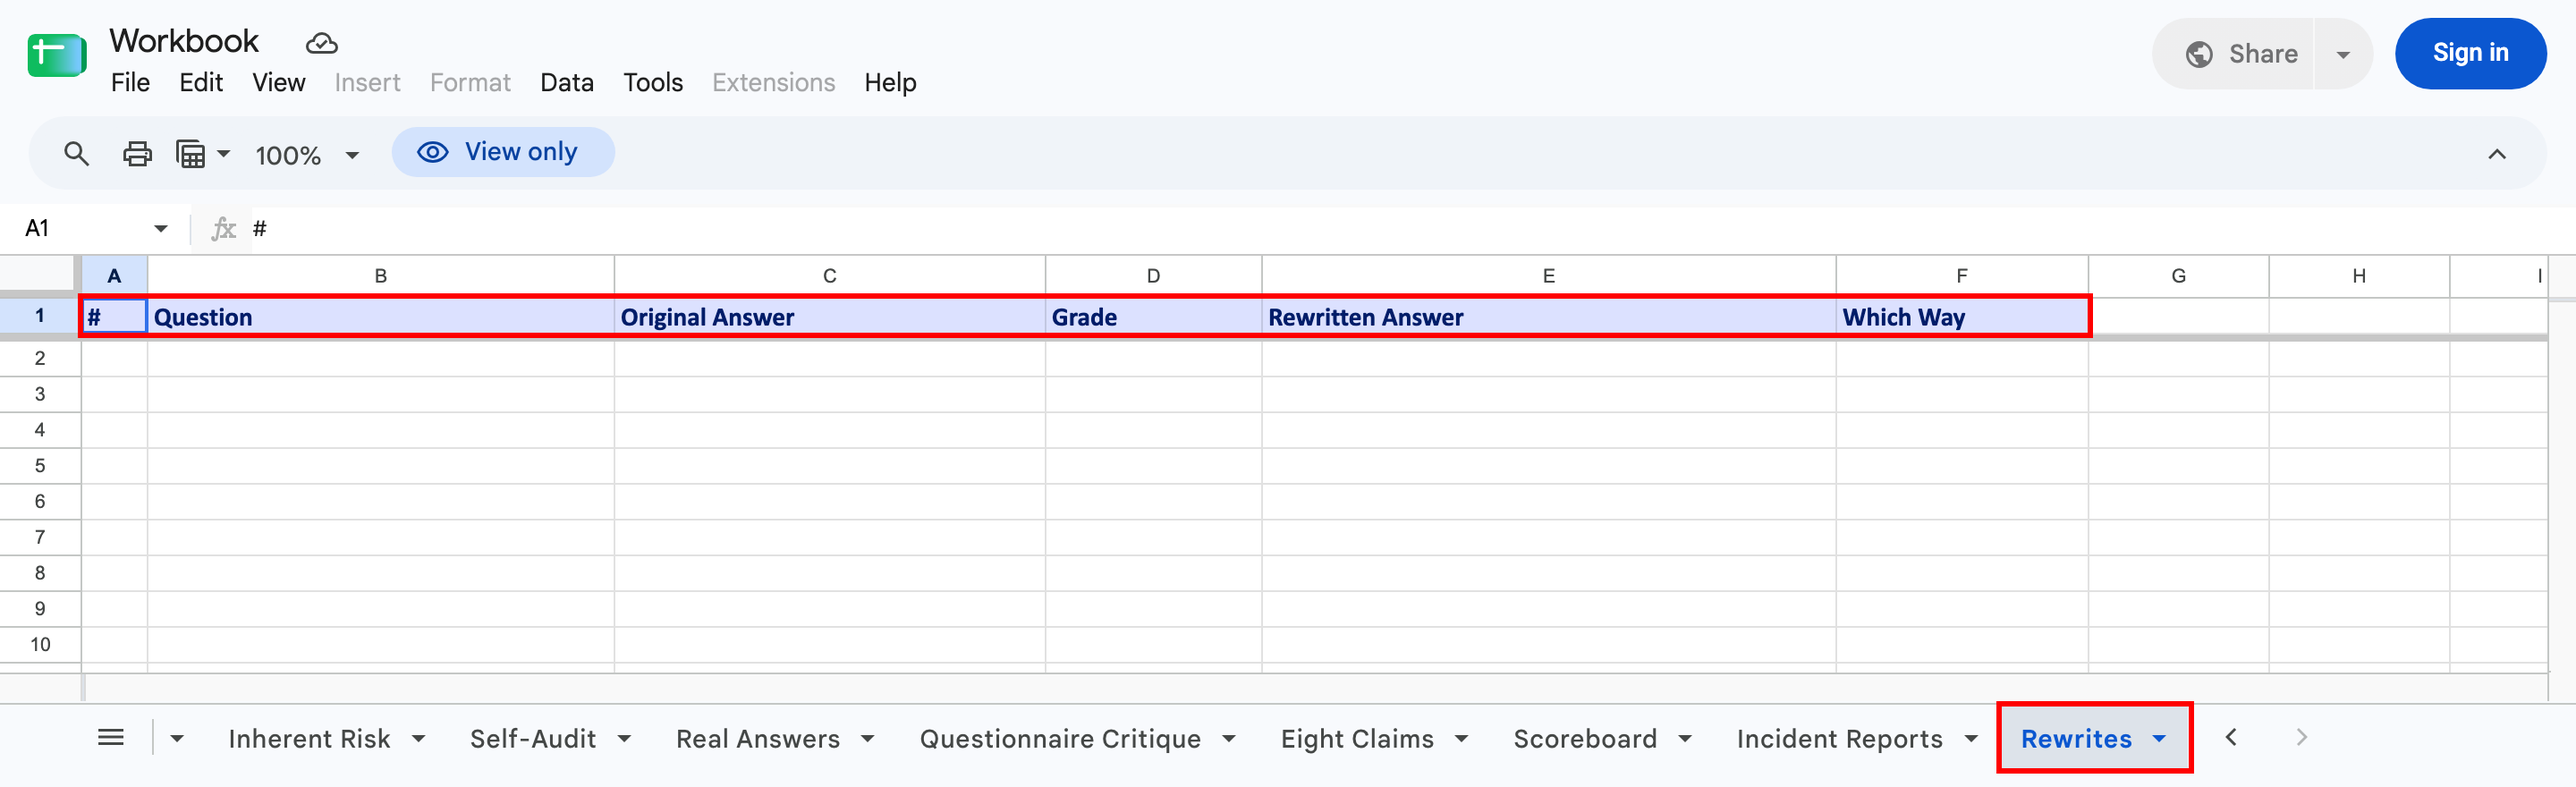
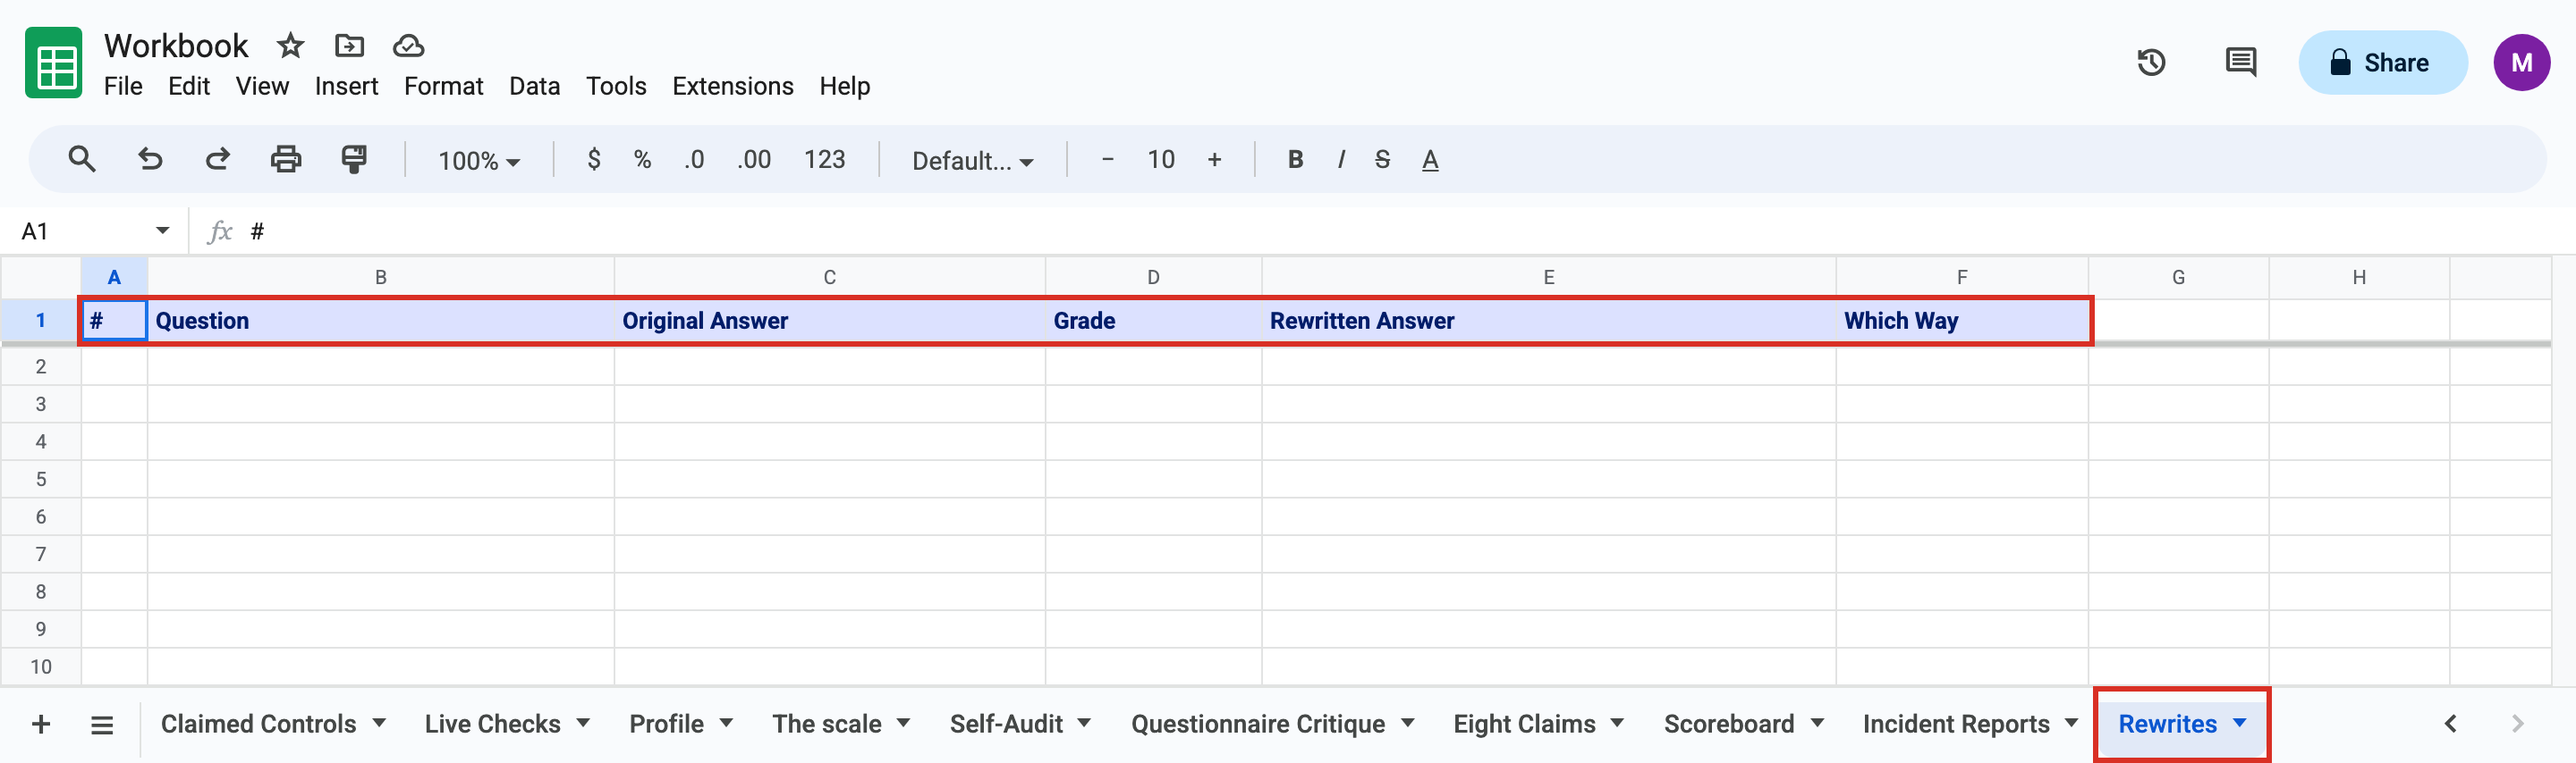
Publish vCISO P1 Step 1 interactives
Project 1 Step 1 interactives for the vCISO externship. Extern palette
only, vanilla JS, no external requests, keyboard operable, reduced-motion
safe.

diff --git a/vciso-p4-m3-what-would-an-auditor-accept.html b/vciso-p4-m3-what-would-an-auditor-accept.html
@@ -14,16 +14,24 @@
   Not per scope: the module is identical in every scope (build spec).
   Governing authority: output/programs/vciso/CLAUDE.md section 6.
 
-  Owner's interactive rules (Project 2) applied over the build spec:
+  Owner's interactive rules (Projects 2 and 3, HANDOVER-2026-10-02-P2.md
+  section 2) applied over the build spec:
   - One thing per screen, "Question N of 6", in place of six cards at once.
-  - A pick shows right or wrong at once. Each question has only two answers,
-    so a wrong pick shows the right one straight away, green "Right answer"
-    (same rule as the yes or no question in vciso-p2-m11). No submit step.
-  - The last screen shows where all six belong, then the definition and
+  - A right pick shows a green tick and "Right". A wrong pick shows a red
+    cross and "Not quite" with a hint, and the student tries again. After a
+    second wrong try the right answer is shown in green, "Right answer".
+    Each question here has two answers, so once the wrong one is out the
+    student picks the other one; the second-wrong path is kept in the code
+    for safety but cannot be reached with two answers. No submit step.
+  - The last screen shows where all six belong (green "Right first try" or
+    navy "Right on second try", never red), then the definition and
     "Only #4 does all three" as the reveal (P4-3).
   - The "Why" lines are P4-3's, turned into full sentences. No new facts.
   - The plain line under each card and each answer is ours, from the
-    module's own definition boxes. No new facts.
+    module's own definition boxes. No new facts. The "Not quite" hints are
+    ours (writer's part), and point back at the three parts of evidence.
+  16 Oct 2026 sync with the module: premise worded as the module words it
+  ("firewall settings", "Now an auditor asks you"); "hand", not "offer".
   Green #146C2E on #E6F4EA (5.7:1), red #B3261E on #FCE8E6 (5.6:1),
   right and wrong only, always with an icon and a word. "Weak, not nothing"
   is navy, so it never reads as right or wrong.
@@ -282,8 +290,8 @@
   </style>
   <div class="nsf">
     <h2>What Would an Auditor Accept?</h2>
-    <p>Cumberland reviews its firewall every three months. You know this for a fact, because Nate, Cumberland’s systems administrator, told you, and Nate is not lying. The auditor asks you to hand over something that shows it.</p>
-    <p>There are six things on the table. For each one, decide: <strong>an auditor would accept this</strong>, or <strong>this only looks like proof</strong>? Make every call before you read the answers below.</p>
+    <p>Cumberland reviews its firewall settings every three months. You know this for a fact, because Nate, Cumberland’s systems administrator, told you, and Nate is not lying to you. Now an auditor asks you to hand over something that shows it.</p>
+    <p>There are six things that we are going to show you. Each one is something Cumberland could hand the auditor. For each one, pick the answer that you think the auditor would give: <strong>An auditor would accept this</strong> or <strong>This only looks like proof</strong>. Make every pick before you read the answers below.</p>
     <ol>
       <li>Nate saying “I review it every quarter”. Every quarter means every three months.</li>
       <li>A screenshot of the firewall rules, no date on it. A screenshot is a picture of what was on a screen at one moment.</li>
@@ -339,7 +347,7 @@
      "why": P4-3's Why line, turned into full sentences, no new facts.
      "def": the plain-words line under a card, ours, from the module's own
      definition boxes. No new facts. */
-  var PREMISE = "<b>Cumberland reviews its firewall every three months.</b> You know this for a fact, because Nate, Cumberland’s systems administrator, told you, and Nate is not lying. The auditor asks you to hand over something that shows it.";
+  var PREMISE = "<b>Cumberland reviews its firewall settings every three months.</b> You know this for a fact, because Nate, Cumberland’s systems administrator, told you, and Nate is not lying to you. Now an auditor asks you to hand over something that shows it.";
 
   var ANS = {
     accept:{ name:"An auditor would accept this", ic:"stamp",
